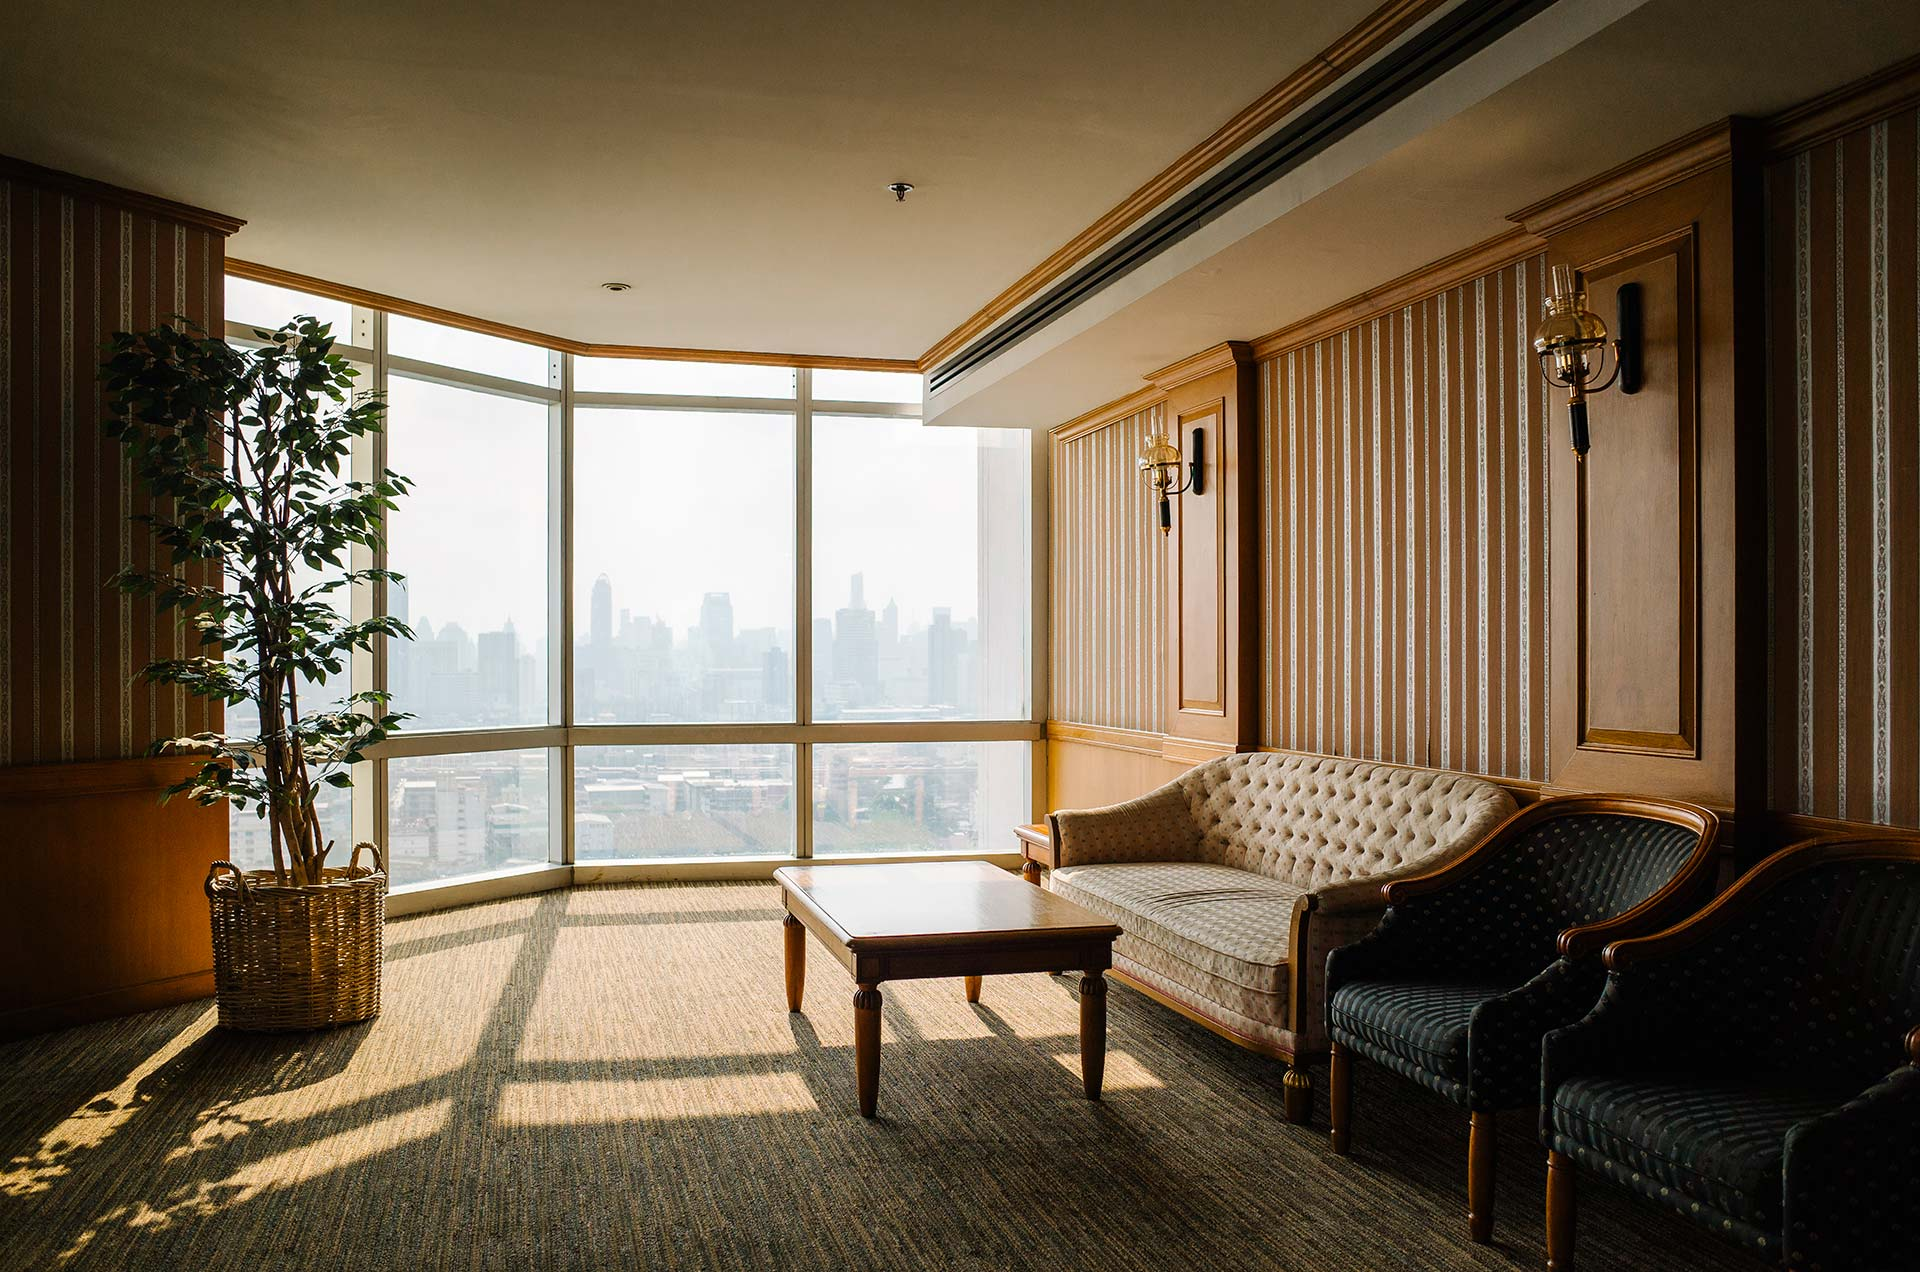
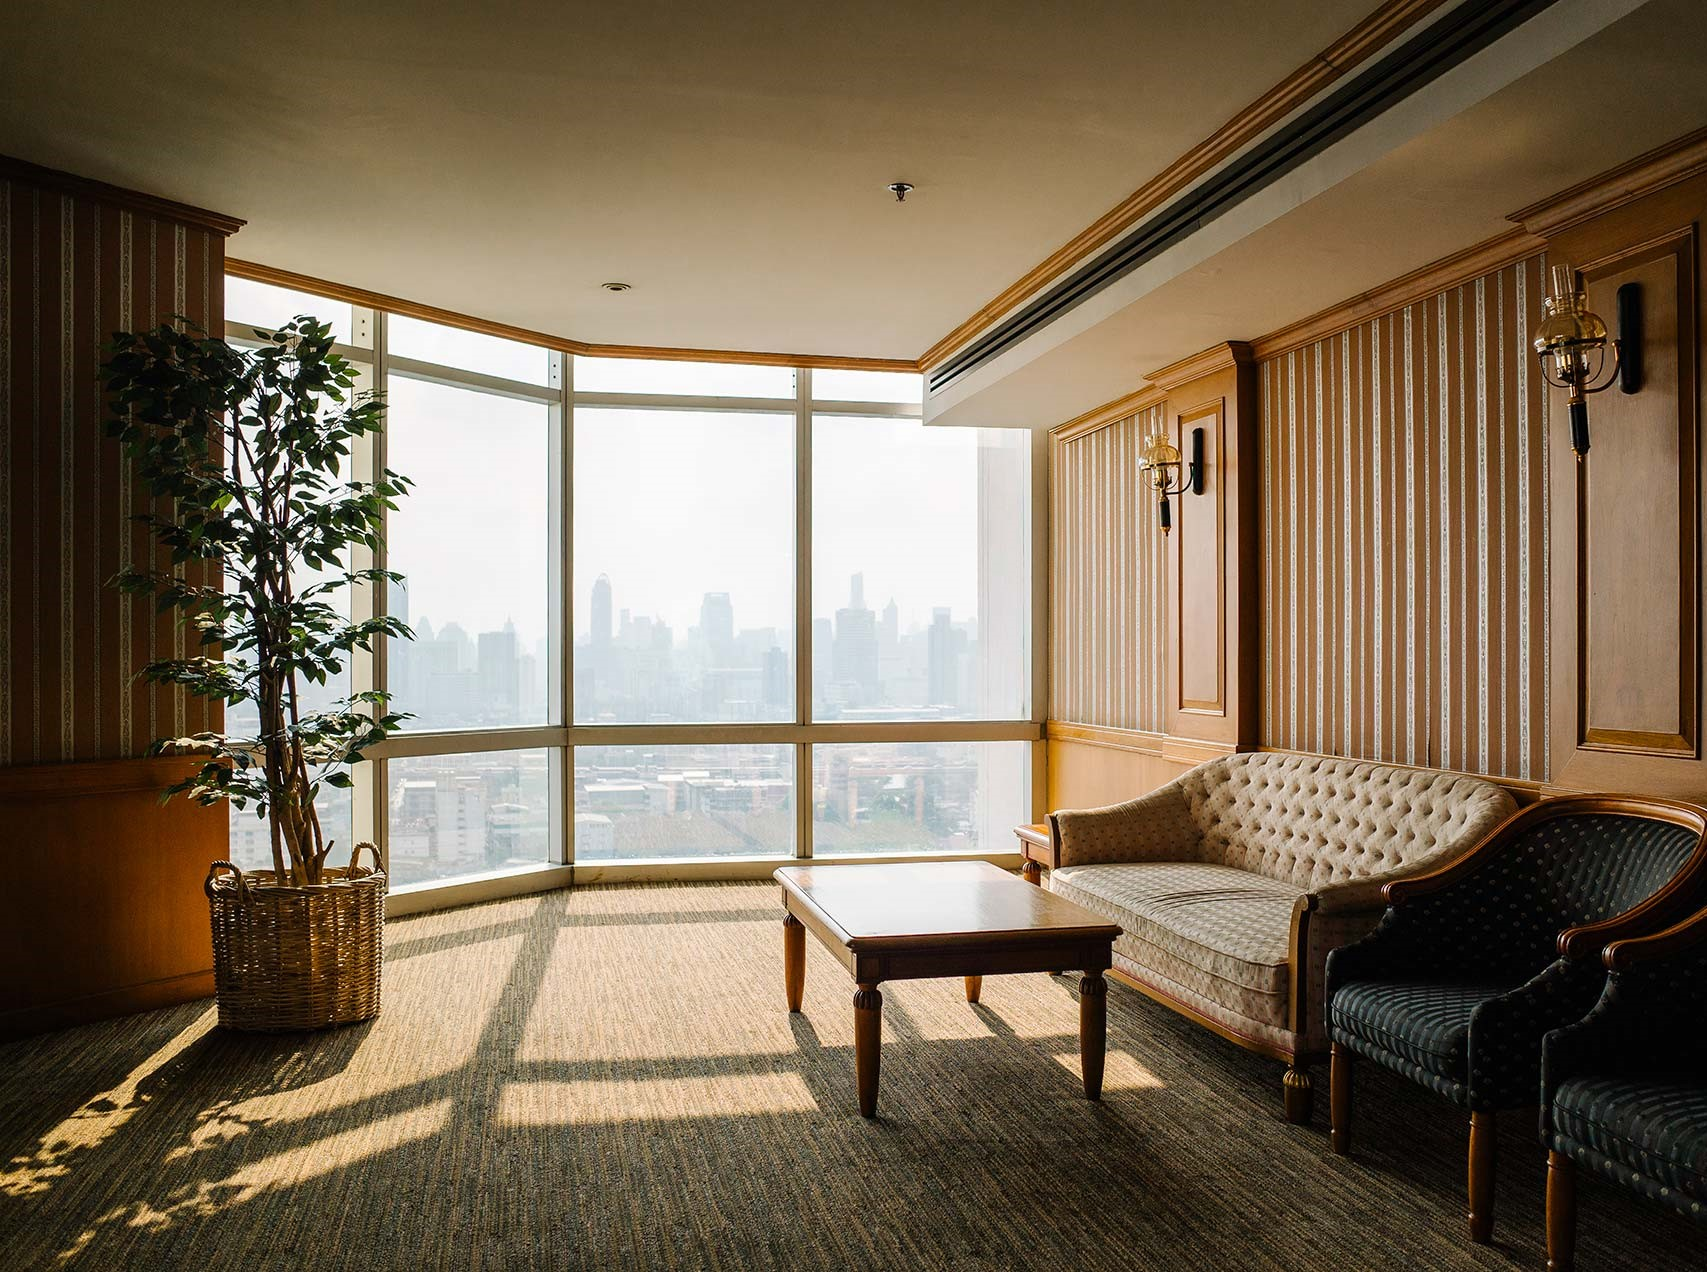
change hero img for screen size

diff --git a/src/components/HomeHero.jsx b/src/components/HomeHero.jsx
@@ -1,12 +1,14 @@
 import React from 'react'
 
 import heroImg from '../assets/home-hero.jpg'
+import heroImgMobile from '../assets/home-hero-mobile.jpg'
 
 const HomeHero = () => {
   return (
     <div className="w-full h-screen relative overflow-hidden">
       {/* bg-cover bg-center bg-hero animate-background-zoom */}
-      <img src={heroImg} alt="" className='absolute animate-background-zoom w-full object-cover z-0'/>
+      <img src={heroImg} alt="" className='absolute hidden lg:block animate-background-zoom w-full object-cover z-0'/>
+      <img src={heroImgMobile} alt="" className='absolute lg:hidden animate-background-zoom w-full object-cover z-0'/>
     </div>
   )
 }
